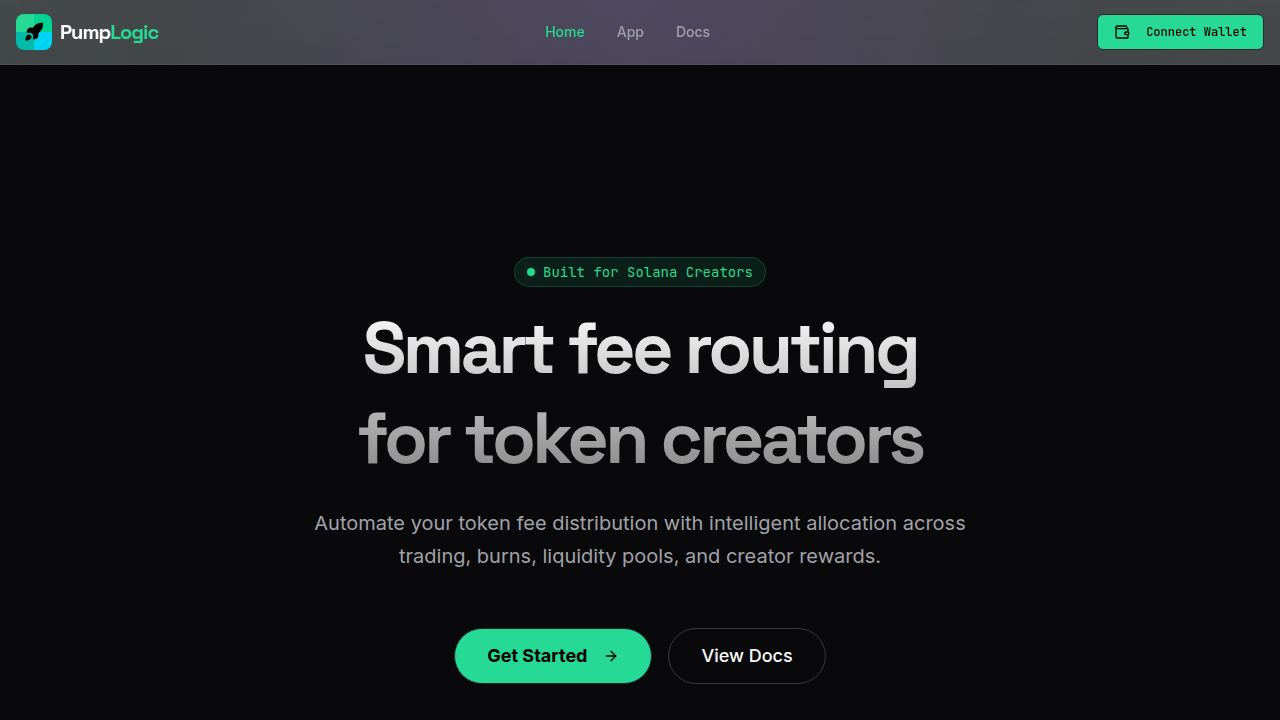
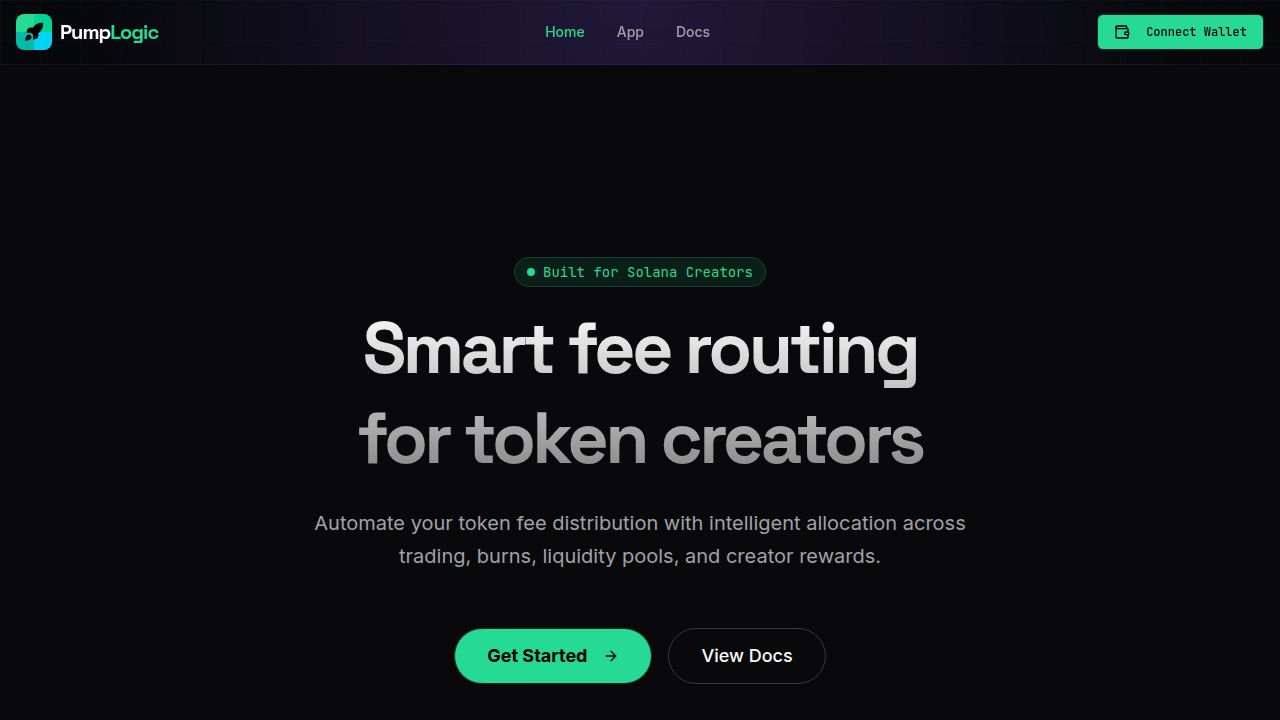
Update background styles for improved visibility and aesthetics
Adjust background gradients and colors in index.css and remove overriding background classes from home, dashboard, and docs pages.

Replit-Commit-Author: Agent
Replit-Commit-Session-Id: 2585299b-9637-488b-8496-783835317285
Replit-Commit-Checkpoint-Type: full_checkpoint
Replit-Commit-Event-Id: 31024af2-2901-4734-8b15-169037b8432b
Replit-Commit-Screenshot-Url: https://storage.googleapis.com/screenshot-production-us-central1/2bad6cc9-0753-4a81-a241-f469247d4355/2585299b-9637-488b-8496-783835317285/FcA7lxD
Replit-Helium-Checkpoint-Created: true

Changed region(s): [[0.0, 0.0, 1.0, 0.0917]]

diff --git a/client/src/index.css b/client/src/index.css
@@ -95,14 +95,15 @@
   }
   body {
     @apply text-foreground font-sans antialiased;
-    background-color: hsl(240 10% 3.9%);
-    background-image: 
-      linear-gradient(rgba(0, 255, 157, 0.03) 1px, transparent 1px),
-      linear-gradient(90deg, rgba(0, 255, 157, 0.03) 1px, transparent 1px),
-      radial-gradient(circle at 50% 0%, rgba(139, 92, 246, 0.15), transparent 50%),
-      radial-gradient(circle at 0% 100%, rgba(0, 255, 157, 0.1), transparent 40%);
-    background-size: 50px 50px, 50px 50px, 100% 100%, 100% 100%;
+    background: 
+      linear-gradient(rgba(0, 255, 157, 0.08) 1px, transparent 1px),
+      linear-gradient(90deg, rgba(0, 255, 157, 0.08) 1px, transparent 1px),
+      radial-gradient(ellipse at 50% 0%, rgba(139, 92, 246, 0.25) 0%, transparent 60%),
+      radial-gradient(ellipse at 0% 100%, rgba(0, 255, 157, 0.15) 0%, transparent 50%),
+      #0a0a0f;
+    background-size: 40px 40px, 40px 40px, 100% 100%, 100% 100%, 100% 100%;
     background-attachment: fixed;
+    min-height: 100vh;
   }
   h1, h2, h3, h4, h5, h6 {
     @apply font-display tracking-tight;

diff --git a/client/src/pages/dashboard.tsx b/client/src/pages/dashboard.tsx
@@ -434,7 +434,7 @@ export default function Dashboard() {
   // Redirect if not connected
   if (!isConnected || !user) {
     return (
-      <div className="min-h-screen bg-background text-foreground flex items-center justify-center">
+      <div className="min-h-screen text-foreground flex items-center justify-center">
         <Card className="bg-card border-white/5 max-w-md w-full mx-4">
           <CardHeader>
             <CardTitle className="text-white text-center">Connect Your Wallet</CardTitle>
@@ -452,7 +452,7 @@ export default function Dashboard() {
   }
 
   return (
-    <div className="min-h-screen bg-background text-foreground pb-20">
+    <div className="min-h-screen text-foreground pb-20">
       <div className="container mx-auto px-4 pt-8">
         
         {/* Connection Warning */}

diff --git a/client/src/pages/docs.tsx b/client/src/pages/docs.tsx
@@ -4,7 +4,7 @@ import { TrendingUp, RefreshCw, Zap, Coins, Wallet, Settings, Activity, Brain, E
 
 export default function Docs() {
   return (
-    <div className="min-h-screen bg-background text-foreground pb-20">
+    <div className="min-h-screen text-foreground pb-20">
       <div className="container mx-auto px-4 pt-16 max-w-4xl">
         <div className="text-center mb-12">
           <h1 className="text-4xl md:text-5xl font-bold font-display mb-4 text-white">Documentation</h1>

diff --git a/client/src/pages/home.tsx b/client/src/pages/home.tsx
@@ -5,7 +5,7 @@ import { ArrowRight, Zap, TrendingUp, RefreshCw, Coins, CheckCircle2 } from "luc
 
 export default function Home() {
   return (
-    <div className="min-h-screen bg-background text-foreground overflow-hidden">
+    <div className="min-h-screen text-foreground overflow-hidden">
       {/* Hero Section */}
       <section className="relative pt-32 pb-20 md:pt-48 md:pb-32 container mx-auto px-4 text-center">
         <motion.div 
